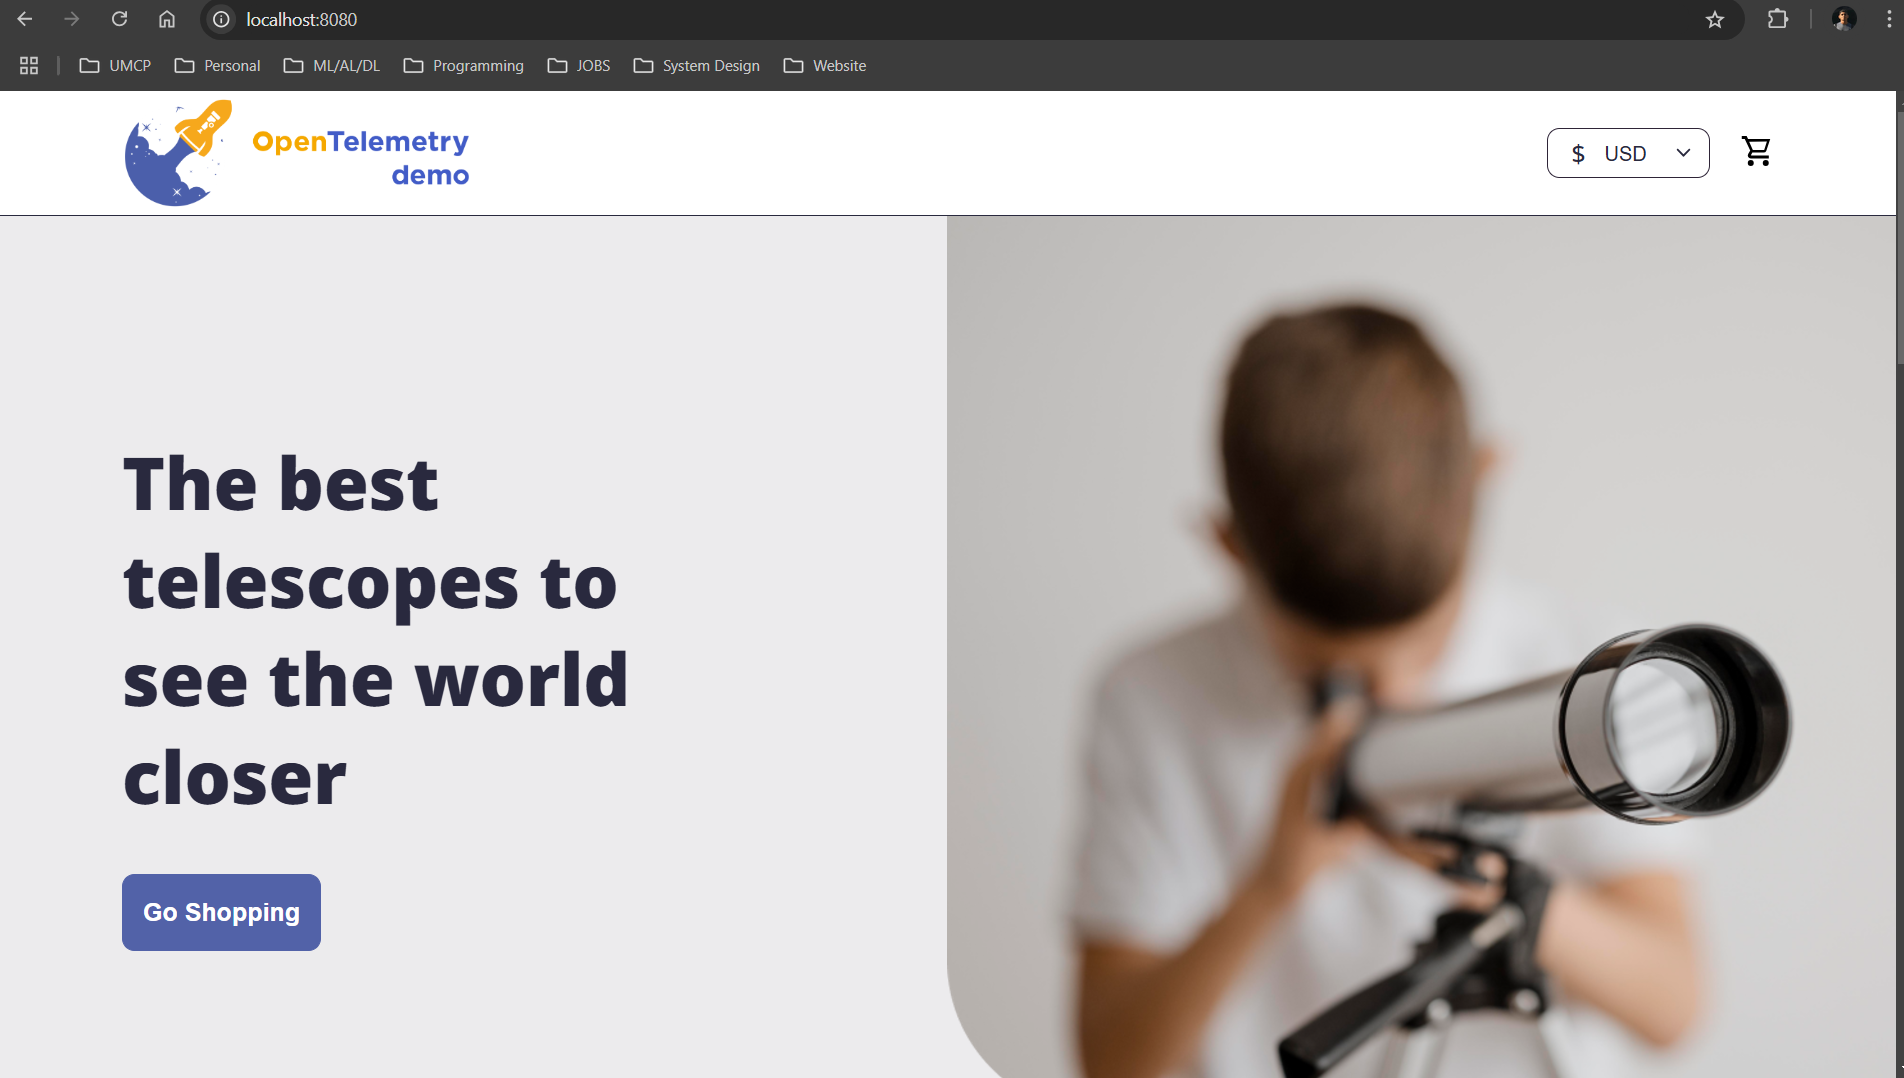
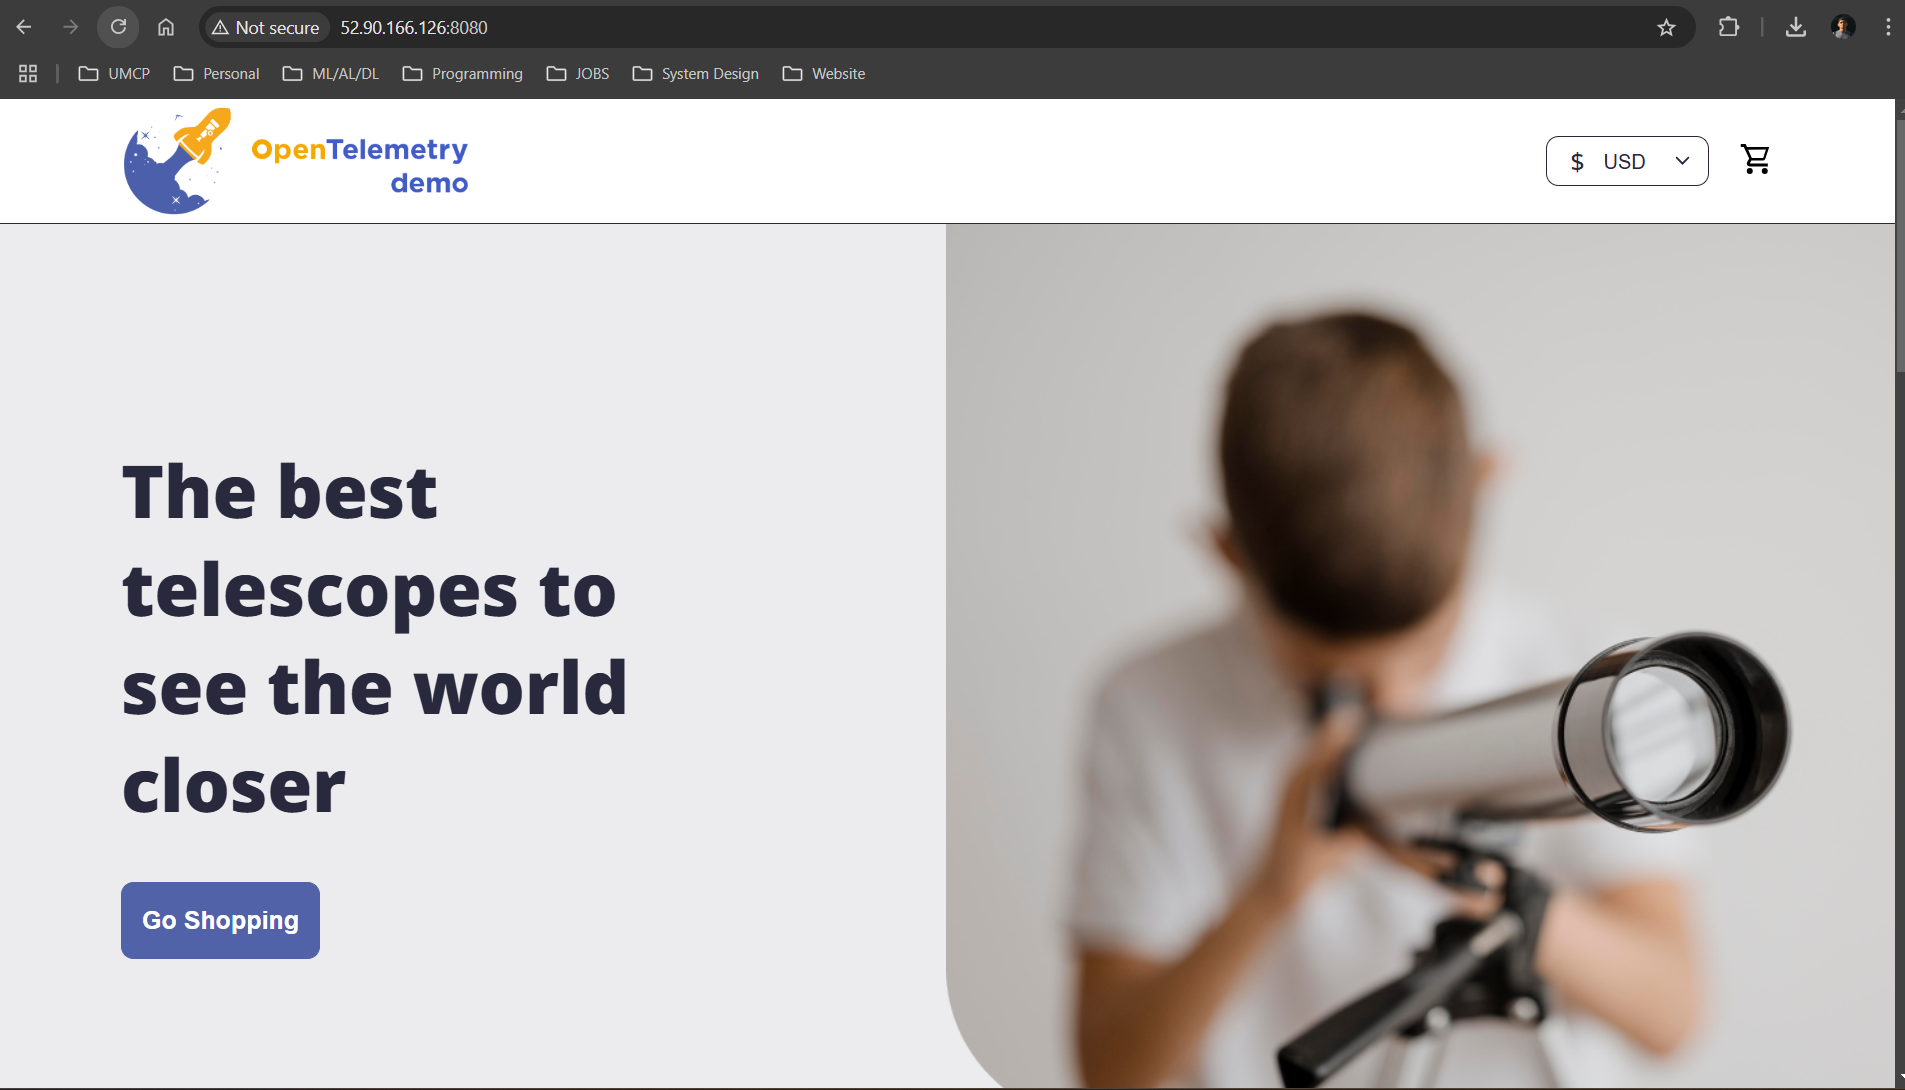
update - phase1

diff --git a/README.md b/README.md
@@ -250,7 +250,7 @@
         - Deploy the application to the EKS Cluster
 
         ```
-        kubectl apply -f /EKS-and-Monitoring-with-OpenTelemetry/phase1/opentelemetry-demo.yaml
+        kubectl apply --namespace otel-demo -f /EKS-and-Monitoring-with-OpenTelemetry/phase1/opentelemetry-demo.yaml
         ```
 
         ![Kubectl Config](/screenshots/phase1/kubectl-configuration.png)
@@ -266,69 +266,24 @@
 
     - Access application endpoints through port-forwarding or service
 
-        - Accessing the Webstore
+        - Accessing the application 
 
-            - Forward a local port on the EKS Client to a port on a service running within a Kubernetes cluster
-
-            ```
-                kubectl port-forward svc/opentelemetry-demo-frontendproxy 8080:8080
-            ```
-
-            - Sets up a local port forwarding from your local machine to the remote EC2 instance (EKS client), to securely access a service running on that EC2 instance.
+            - Forward a local port on the EKS Client to a port on a service running within a Kubernetes cluster. This command allows the port-forwarding to be accessed from any IP address, not just localhost
 
             ```
-            ssh -i "SSH1.pem" -L 8080:127.0.0.1:8080 ec2-user@ec2-3-86-28-24.compute-1.amazonaws.com
+            kubectl port-forward svc/opentelemetry-demo-frontendproxy 8080:8080 --namespace otel-demo --address 0.0.0.0
             ```
 
-            - Access the application from the local machine 
+            - Access the application  
             ```
-            http://localhost:8080    
-            http://localhost:8080/jaeger/ui/search
-            http://localhost:8080/loadgen/   
-
-            Flagd configurator UI: http://localhost:8080/feature
+            http://<instance-public-ip>:8080    
+            http://<instance-public-ip>:8080/grafana 
+            http://<instance-public-ip>:8080/jaeger/ui/search
+            http://<instance-public-ip>:8080/loadgen/   
+            http://<instance-public-ip>:8080/feature
 
             ```
 
-        - Accessing Grafana 
-
-            - Forward a local port on the EKS Client to a port on a service running within a Kubernetes cluster
-
-            ```
-            kubectl port-forward svc/opentelemetry-demo-grafana 8000:80 -n otel-demo
-            ```
-
-            - Sets up a local port forwarding from your local machine to the remote EC2 instance (EKS client), to securely access a service running on that EC2 instance.
-
-            ```
-            ssh -i "SSH1.pem" -L 8000:127.0.0.1:8000 ec2-user@ec2-54-162-13-172.compute-1.amazonaws.com
-            ```
-
-            - Access the application from the local machine 
-            ```
-            http://localhost:8000/grafana       
-            ```
-
-
-        - Accessing Prometheus
-
-            - Forward a local port on the EKS Client to a port on a service running within a Kubernetes cluster
-
-            ```
-            kubectl port-forward svc/opentelemetry-demo-prometheus-server 9090:9090 -n otel-demo
-
-            ```
-
-            - Sets up a local port forwarding from your local machine to the remote EC2 instance (EKS client), to securely access a service running on that EC2 instance.
-
-            ```
-            ssh -i "SSH1.pem" -L 9090:127.0.0.1:9090 ec2-user@ec2-54-162-13-172.compute-1.amazonaws.com
-            ```
-
-            - Access the application from the local machine 
-            ```
-            http://localhost:9090       
-            ```
 
 
     - Collect the cluster details, including node and pod
@@ -344,7 +299,7 @@
         kubectl get pods -n otel-demo
         ```
 
-        ![Kubectl get pods](/screenshots/phase1/kubectl-get-pods.png)
+        ![Kubectl get pods](/screenshots/phase1/kubectl-get-pods-1.png)
 
 
         ```
@@ -372,9 +327,7 @@
 
 - Screenshot of kubectl get all -n otel-demo showing the status of pods, services, and deployments.
 
-    ![Kubectl Get All Namespace otel-demo](/screenshots/phase1/kubectl-get-all-n-otel.png)
-
-    ![Kubectl Get All](/screenshots/phase1/kubectlgetall.png)
+    ![Kubectl Get All Namespace otel-demo](/screenshots/phase1/kubectl-get-all-n-otel-1.png)
 
 
 - Screenshot of logs from key application pods to confirm successful
@@ -384,29 +337,30 @@
     kubectl logs <pod-name> -n otel-demo
     ```
 
-    - Retrieving log messages from the opentelemetry-demo-frontendproxy-74f988cfb4-vtf4x pod
+    - Retrieving log messages from the frontendproxy pod
 
     ```
-    kubectl logs opentelemetry-demo-frontendproxy-74f988cfb4-vtf4x --tail=50
+    kubectl logs <front-end-proxy pod name> --tail=50 -n otel-demo
     ```
 
     ![Frontend Proxy Pod Log](/screenshots/phase1/kubectl-log-frontendproxy.png)
     
-    - Eg. To Retrieve the last 75 log messages from the opentelemetry-demo-grafana-69b6bd5dd4-bvs5k pod
+    - Retrieving the last 50 log messages from the grafana pod
 
     ```
-    kubectl logs opentelemetry-demo-grafana-69b6bd5dd4-bvs5k -n otel-demo --tail=75
+    kubectl logs <grafana-pod-id> -n otel-demo --tail=50
     ``` 
 
     ![Grafana Pod Log](/screenshots/phase1/grafana-pod-log.png)
 
-    - Eg. Similarly, retrieving the last 75 log messages from opentelemetry-demo-prometheus-server-57cd8f9d46-qnd27 pod
+    - Similarly Retrieving the last 50 log messages from the jaeger pod
 
-    ```
-    kubectl logs opentelemetry-demo-prometheus-server-57cd8f9d46-qnd27 -n otel-demo --tail=75
-    ``` 
+    ![Jaeger Pod Log](/screenshots/phase1/jaeger-ui-pod-log.png)
 
-    ![Prometheus Server Pod Log](/screenshots/phase1/prometheus-server-pod.png)
+    - Flagd pod logs
+
+    ![FlagD pod log](/screenshots/phase1/flag-d-pod-log.png)
+
 
 - Exported Kubernetes manifest (opentelemetry-demo.yaml).
 
@@ -418,49 +372,22 @@
 
         - Port forwarding on the EKS Client to the service running Kubernetes
 
-        ![Kubectl port forwarding - Frontend Proxy](/screenshots/phase1/kubectl-port-forwarding-frontend.png)
+        ![Kubectl port forwarding - Frontend Proxy](/screenshots/phase1/kubectl-port-forwarding-frontend-1.png)
 
-        - Port forwarding from Local Machine to remote EC2 instance (EKS Client)
-
-        ![Local port forwarding - FrontendAceess](/screenshots/phase1/local-portforwarding-frontend-access.png)
 
         - Accessing the application Locally 
 
         ![Webstore local access](/screenshots/phase1/webstore-local-access.png)
 
+        ![Grafana local access](/screenshots/phase1/grafana-local-access.png)
+
         ![LoadGen local access](/screenshots/phase1/loadgen-local-access.png)
 
         ![Jaeger UI Local access](/screenshots/phase1/jaeger-ui-local-access-kubectl.png)
 
-    - Accessing Grafana 
+        ![Flagd configurator UI](/screenshots/phase1/flag-d-ui.png)
 
-        - Port forwarding on the EKS Client to the service running Kubernetes
-
-        ![Kubectl port forwarding - Grafan](/screenshots/phase1/kubectl-port-forwarding-grafana.png)
-
-        - Port forwarding from Local Machine to remote EC2 instance (EKS Client)
-
-        ![Local port forwarding - FrontendAceess](/screenshots/phase1/local-port-forwarding-grafana.png)
-
-        - Accessing the application Locally 
-
-        ![Grafana local access](/screenshots/phase1/grafana-local-access.png)
-
-
-    - Accessing Prometheus 
-
-        - Port forwarding on the EKS Client to the service running Kubernetes
-
-        ![Kubectl port forwarding - Prometheus](/screenshots/phase1/kubectl-port-forwarding-prometheus.png)
-
-        - Port forwarding from Local Machine to remote EC2 instance (EKS Client)
-
-        ![Local port forwarding - Prometheus](/screenshots/phase1/local-port-forwarding-prometheus.png)
-
-        - Accessing the application Locally 
-
-        ![Prometheus local access](/screenshots/phase1/prometheus-local-access.png)
-
+    
 
 ## Phase 2: YAML Splitting and Modular Deployment
 
